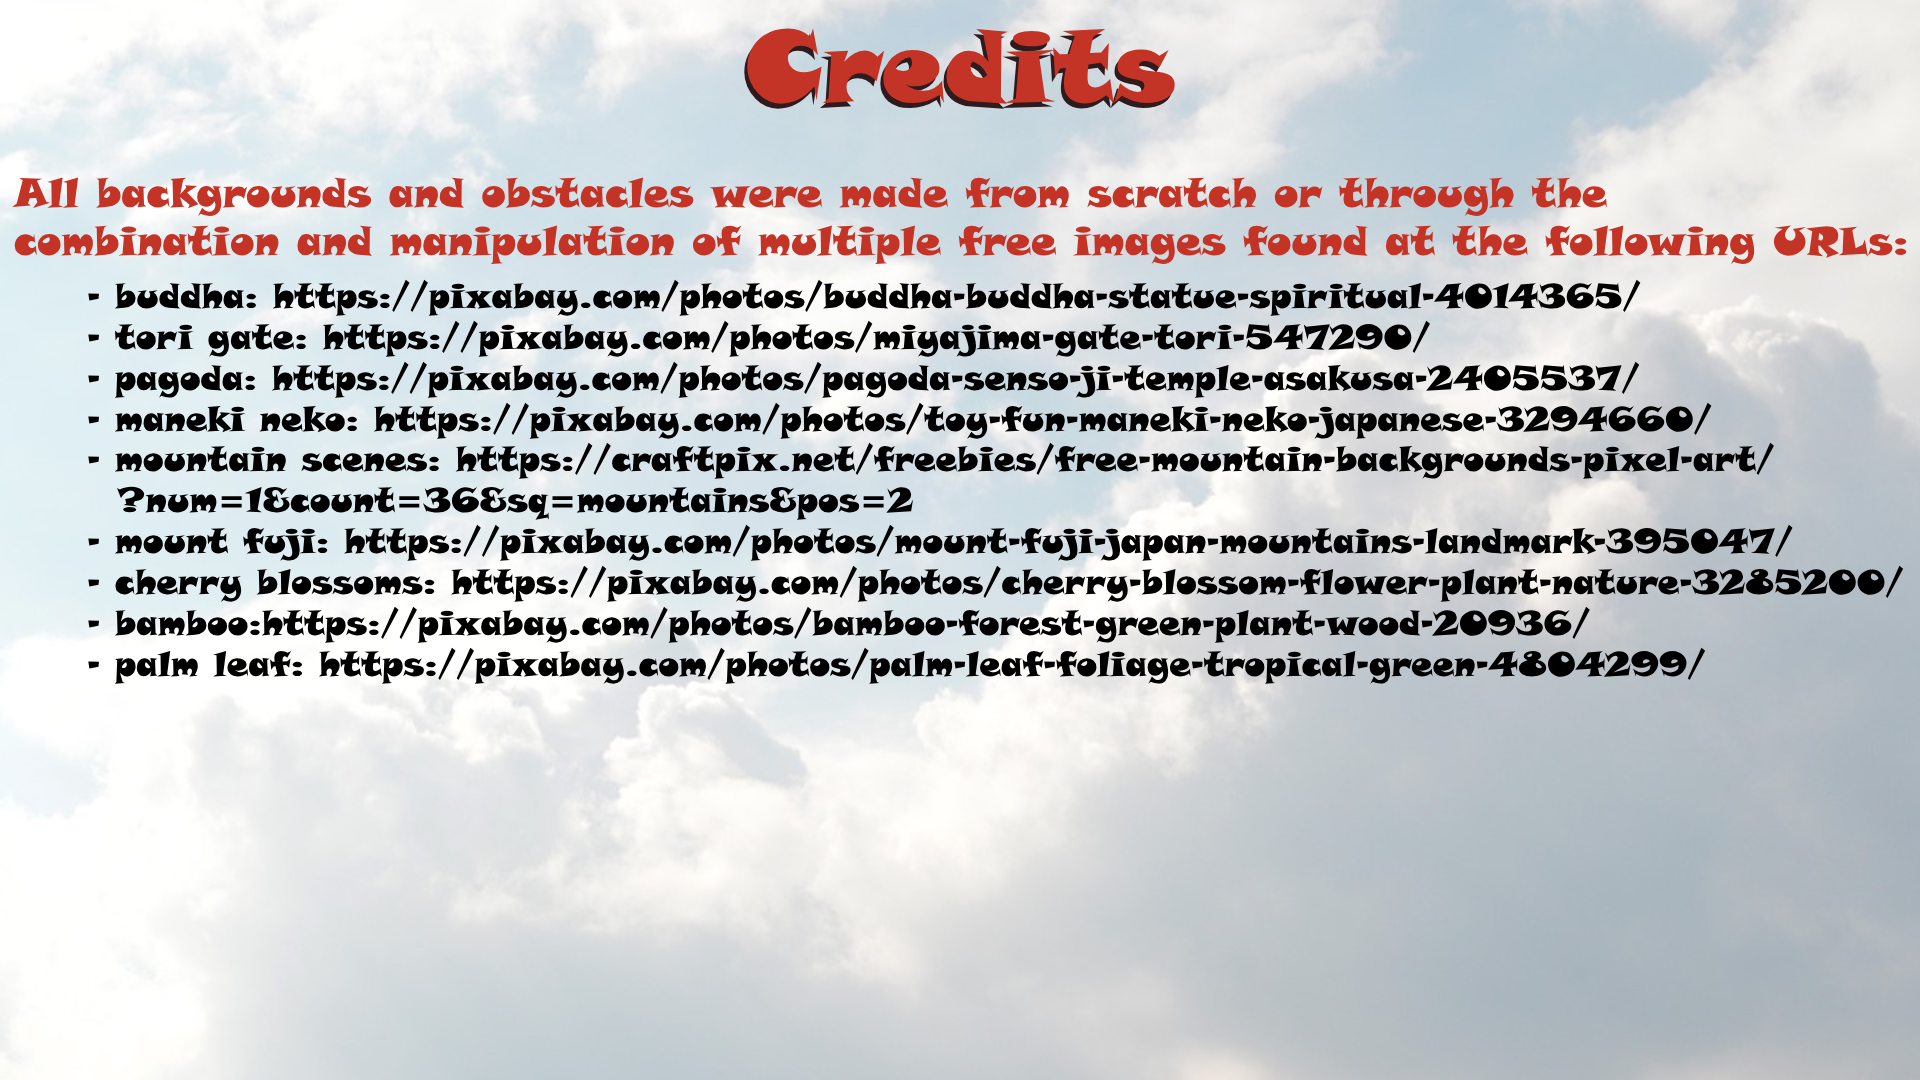
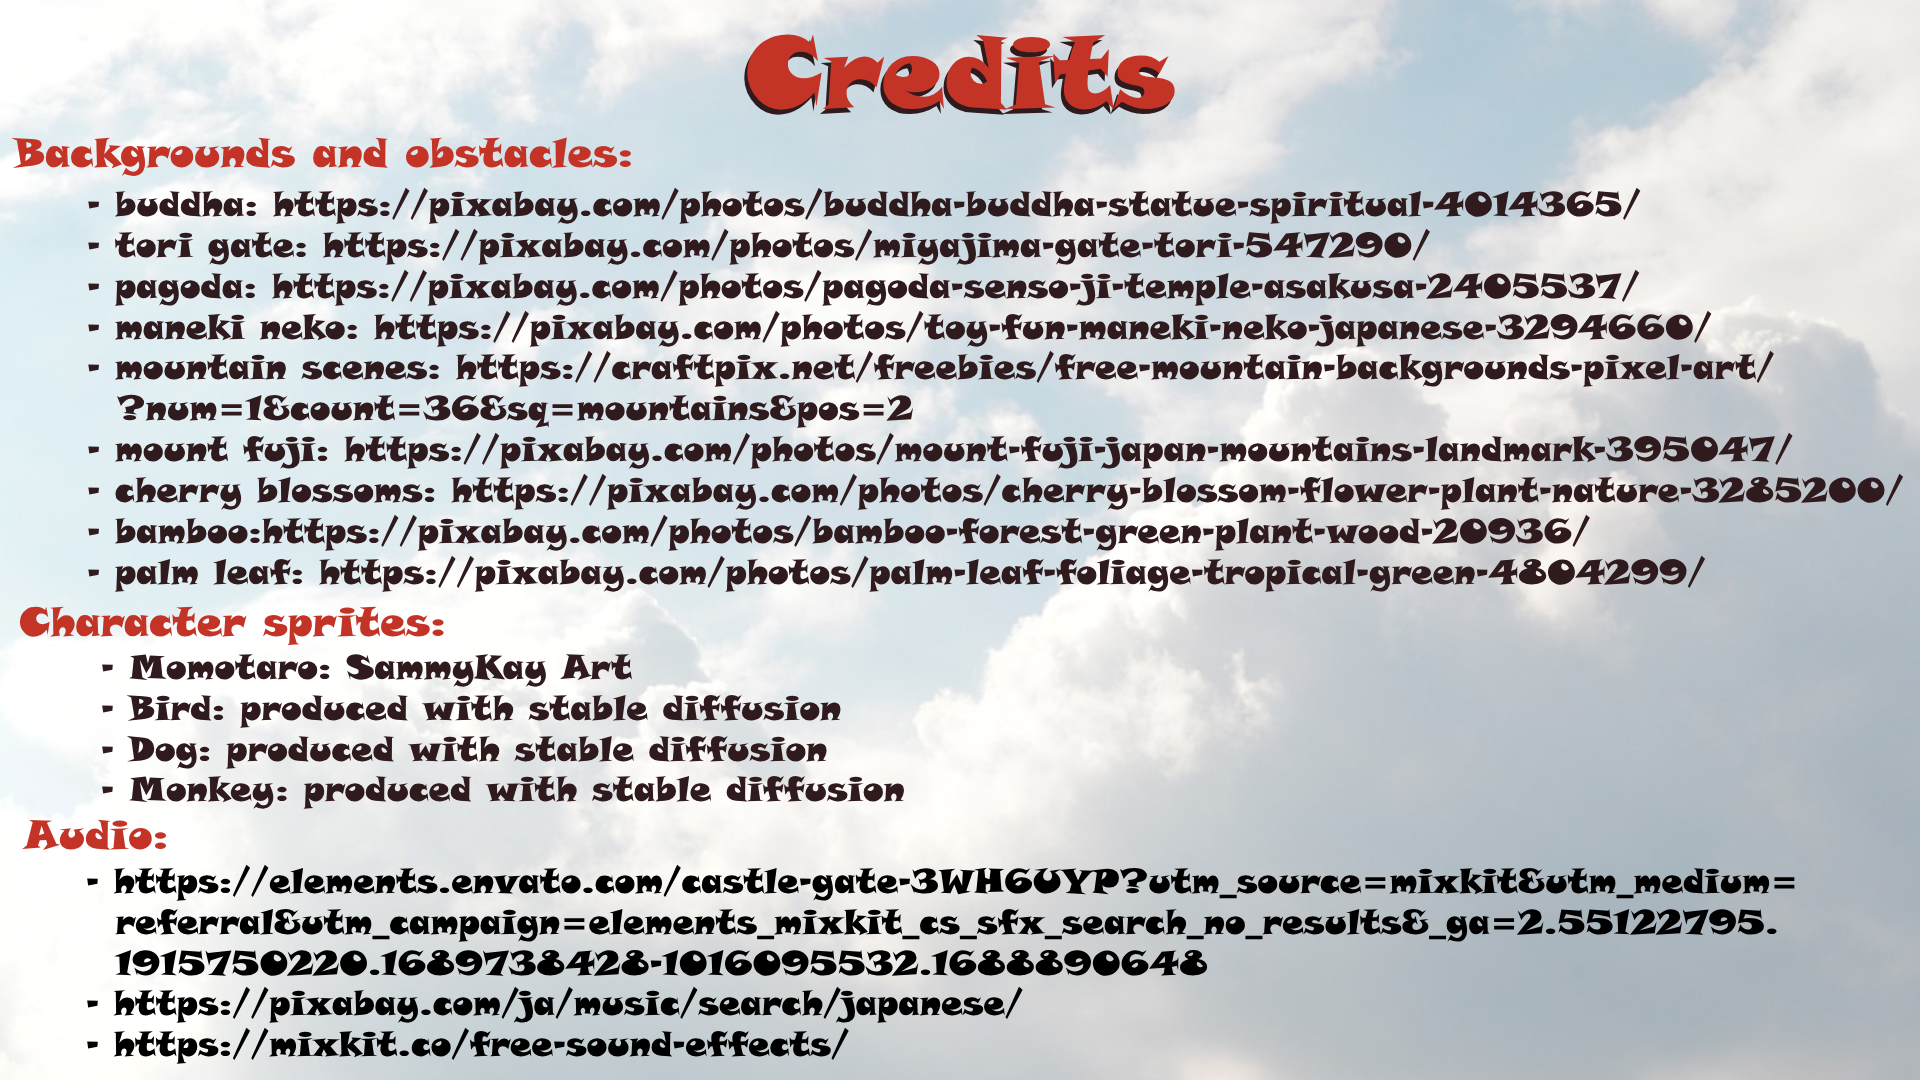
gate and credits update
- added a second tori gate for player 2 to go through: each has their own gate, both have to be in them, either player can end the game
- updated credits with other peoples sources

Changed region(s): [[0.0, 0.1222, 1.0, 0.9778], [0.375, 0.0306, 0.625, 0.1222]]

diff --git a/momotaro/drivers/game_manager.py b/momotaro/drivers/game_manager.py
@@ -78,7 +78,7 @@ class GameManager:
                     pygame.quit()
                     sys.exit()
 
-                # if key pressing, can either be pausing or ending the game
+                # if key pressing, can either be pausing, ending the game, or changing the camera view
                 elif event.type == pygame.KEYDOWN:
                     # pause button pressed
                     if event.key == pygame.K_ESCAPE:
@@ -89,12 +89,13 @@ class GameManager:
                             # print('restarting')
                             return return_st
 
+                    # changing the camera view
                     elif event.key == pygame.K_c:
                         self.camera_on_momotaro = not self.camera_on_momotaro
 
-                    # up button pressed (W) at the tori gate, ending the level
-                    # if self.level.interactible_list["torigate"][0].is_pushed() and self.level.interactible_list["torigate"][1].is_pushed():
-                    if self.level.interactible_list["torigate"][0].is_pushed() and event.key == pygame.K_w:
+                    # both players at their gates and either pressed up to end the game
+                    if self.level.interactible_list["torigate"][0].is_pushed() and self.level.interactible_list["torigate"][1].is_pushed() and \
+                            (event.key == pygame.K_w or event.key == pygame.K_UP):
                         # add win sound
                         pygame.mixer.pause()
                         self.win_sound.play()

diff --git a/momotaro/game_templates/momotaro_player.py b/momotaro/game_templates/momotaro_player.py
@@ -294,16 +294,21 @@ class Momotaro:
                     momo_center_x = self.get_rect().centerx
                     momo_center_y = self.get_rect().centery
 
-                    obstacle = list_of_obstacles[obstacle_type][0]
+                    obstacles = list_of_obstacles[obstacle_type]
+                    momo_gate = None
 
-                    gate_center_x = obstacle.get_rect().centerx
-                    gate_center_y = obstacle.get_rect().centery
+                    for obstacle in obstacles:
+                        if obstacle.gate_num == 1:
+                            momo_gate = obstacle
+
+                    gate_center_x = momo_gate.get_rect().centerx
+                    gate_center_y = momo_gate.get_rect().centery
 
                     margin = 80
                     if (abs(momo_center_x - gate_center_x) < margin) and (abs(momo_center_y - gate_center_y) < margin):
-                        obstacle.set_pushed(True)
+                        momo_gate.set_pushed(True)
                     else:  # fixed bug so now only when you are in gate range anf up you win
-                        obstacle.set_pushed(False)
+                        momo_gate.set_pushed(False)
 
                 case "coin":
                     for coin in list_of_obstacles[obstacle_type]:

diff --git a/momotaro/game_templates/pet_player.py b/momotaro/game_templates/pet_player.py
@@ -230,6 +230,26 @@ class Pet:
                         except AttributeError:
                             pass
 
+                case "torigate":
+                    center_x = self.get_rect().centerx
+                    center_y = self.get_rect().centery
+
+                    obstacles = list_of_obstacles[obstacle_type]
+                    pet_gate = None
+
+                    for obstacle in obstacles:
+                        if obstacle.gate_num == 2:
+                            pet_gate = obstacle
+
+                    gate_center_x = pet_gate.get_rect().centerx
+                    gate_center_y = pet_gate.get_rect().centery
+
+                    margin = 80
+                    if (abs(center_x - gate_center_x) < margin) and (abs(center_y - gate_center_y) < margin):
+                        pet_gate.set_pushed(True)
+                    else:  # fixed bug so now only when you are in gate range anf up you win
+                        pet_gate.set_pushed(False)
+
     def check_damage(self, demon_list):
         if self.iframes <= 0:
             for demon in demon_list:

diff --git a/momotaro/game_templates/level.py b/momotaro/game_templates/level.py
@@ -51,7 +51,7 @@ class Level:
         temp_demon = demon.Demon(spawn_position, detection_range)
         self.demon_list.append(temp_demon)
 
-    def add_obstacle(self, x, y, type, fence_initial = None, fence_final = None, fence_dimensions = None):
+    def add_obstacle(self, x, y, type, fence_initial = None, fence_final = None, fence_dimensions = None, gate_num=None):
         match type:
             case "button":
                 temp_obstacle = obstacles.ButtonObstacle((x,y), fence_initial, fence_final, x, y, fence_dimensions, self.level_num)
@@ -71,7 +71,7 @@ class Level:
                 self.collidable_list.append(temp_obstacle)
 
             case "torigate":
-                temp_obs = obstacles.ToriObstacle(x, y)
+                temp_obs = obstacles.ToriObstacle(x, y, gate_num)
                 try:
                     self.interactible_list["torigate"] += [temp_obs]
                 except KeyError:

diff --git a/momotaro/game_templates/obstacles.py b/momotaro/game_templates/obstacles.py
@@ -130,9 +130,13 @@ class Fence:
         return self.__fence_rect
 
 class ToriObstacle(Obstacle):
-    def __init__(self, x, y):
+    def __init__(self, x, y, gate_num):
         super().__init__(x, y)
-        self.button_image = pygame.image.load("images/ObstacleButtonSprites/torigate.png").convert_alpha()
+        self.gate_num = gate_num
+        if gate_num == 1:
+            self.button_image = pygame.image.load("images/ObstacleButtonSprites/torigate1.png").convert_alpha()
+        else:
+            self.button_image = pygame.image.load("images/ObstacleButtonSprites/torigate2.png").convert_alpha()
         self.scale_factor = 0.25
         self.__width = int(self.button_image.get_width() * self.scale_factor)
         self.__height = int(self.button_image.get_height() * self.scale_factor)

diff --git a/momotaro/scenes/levels/level_1.py b/momotaro/scenes/levels/level_1.py
@@ -68,9 +68,8 @@ def create_level(my_toolbox):
 
     # add end goal torigate
     level1.add_platform((1560, 400), (350,50), facing_direction="up")
-    level1.add_obstacle(1650, 340, "torigate") # end of the level marker
-    # level1.add_obstacle(500, 900, "torigate")
-    # level1.add_obstacle(700, 900, "torigate")
+    level1.add_obstacle(1650, 330, "torigate", gate_num=1) # end of the level marker
+    level1.add_obstacle(1800, 330, "torigate", gate_num=2)
 
     momotaro = momotaro_player.Momotaro([300, 300])
     pet = pet_player.Pet([200, 300])

diff --git a/momotaro/scenes/levels/level_2.py b/momotaro/scenes/levels/level_2.py
@@ -71,8 +71,8 @@ def create_level(my_toolbox):
     level2.add_demon([3900, 350], (300, 100))
 
     # add tori gate obstacle
-    level2.add_obstacle(3600, 350, "torigate")
-    level2.add_obstacle(3750, 350, "torigate")
+    level2.add_obstacle(3600, 350, "torigate", gate_num=1)
+    level2.add_obstacle(3750, 350, "torigate", gate_num=2)
 
     # add coins
     level2.add_obstacle(2775, 370, "coin")

diff --git a/momotaro/scenes/levels/level_3.py b/momotaro/scenes/levels/level_3.py
@@ -36,7 +36,8 @@ def create_level(my_toolbox):
     #level1.add_demon([3325, 400], 300)
 
     # add tori gate obstacle
-    level1.add_obstacle(600, 500, "torigate")
+    level1.add_obstacle(600, 500, "torigate", gate_num=1)
+    level1.add_obstacle(800, 500, "torigate", gate_num=2)
 
     #c oins
     level1.add_obstacle(600, 900, "coin")
